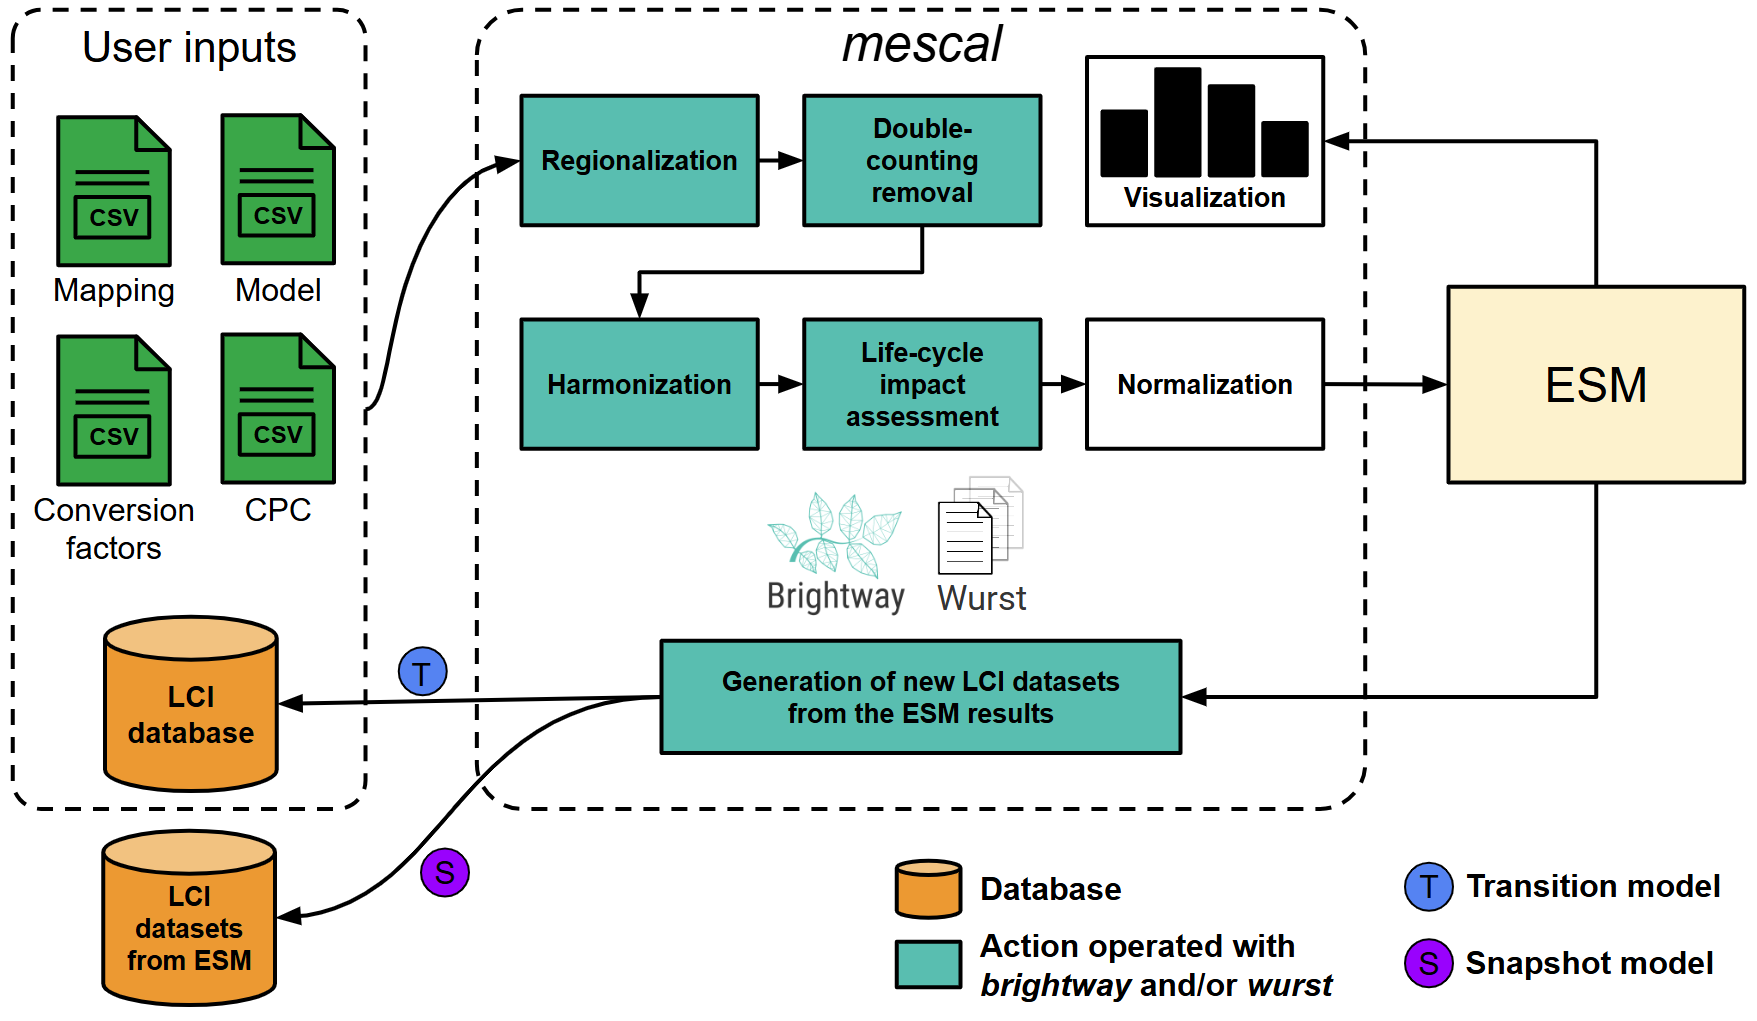
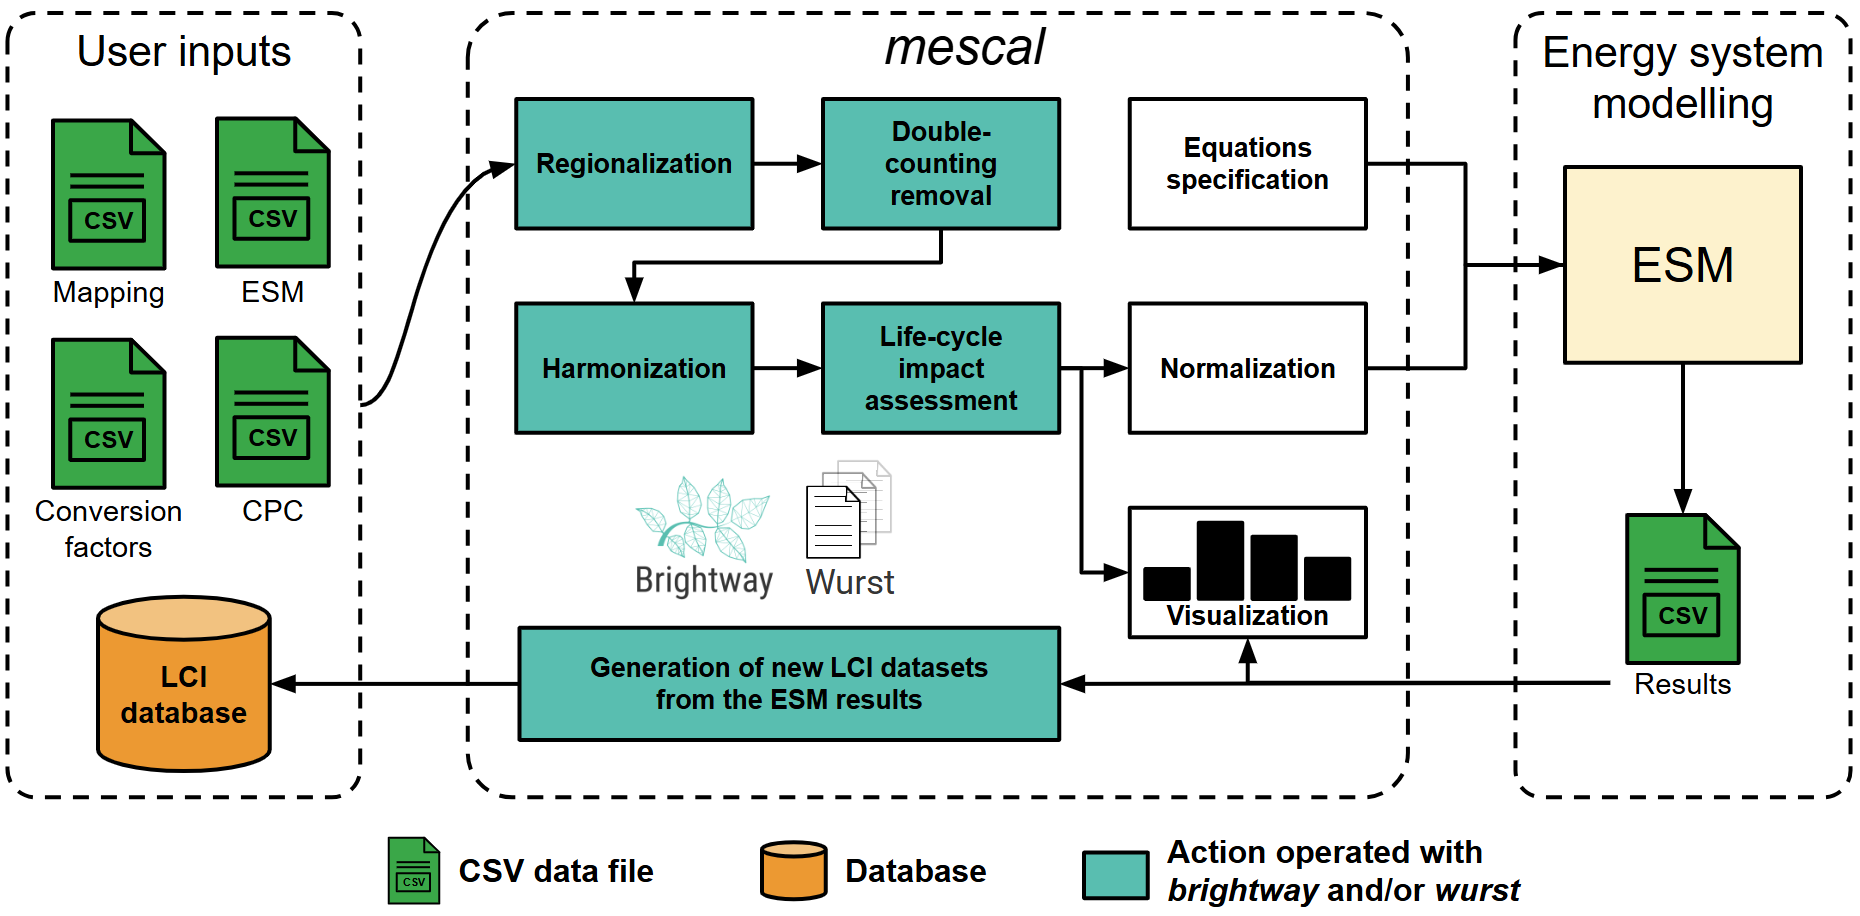
updated figure and added modelling equations

diff --git a/paper.md b/paper.md
@@ -75,7 +75,7 @@ enlarge their set of sustainability metrics.
 - `Mapping.csv`: the mapping between ESM processes (i.e., technologies and resources) and LCI datasets from a LCI 
 database, e.g., _ecoinvent_ [@wernet2016].
 
-- `Model.csv`: the input and output flows of ESM technologies. 
+- `ESM.csv`: the input and output flows of ESM technologies. 
 
 - `Conversion factors.csv`: the set of unit conversion factors between ESM processes and their mapped LCI datasets.
 
@@ -146,7 +146,7 @@ the amount of direct emissions proportionally to the efficiency difference. Exce
 energy elementary flows, the amounts of all elementary flows in the direct emissions of the operation LCI datasets are adjusted 
 using the ratio between the ESM and LCI dataset efficiencies (`Lifetime.csv`). The efficiency of the operation LCI dataset is computed 
 using the quantity of fuel that was removed during the double-counting removal step, while the efficiency of the ESM 
-process is computed from `Model.csv`. This transformation is applied to a list of ESM technologies given by the user 
+process is computed from `ESM.csv`. This transformation is applied to a list of ESM technologies given by the user 
 (`Efficiency.csv`), typically technologies involving a combustion process. 
 
 - **Physical units**: The energy and material output flows may be expressed in different units in the ESM and the LCI 
@@ -167,20 +167,45 @@ set to zero during the double-counting removal step.
 Prior to integration into ESM, LCA indicators are normalized. In the context of optimization, 
 normalization is beneficial in facilitating the solver's convergence, given that LCA indicators may exhibit 
 significant discrepancies in magnitude across impact categories. By aligning all metrics within a comparable order of 
-magnitude, numerical stability is improved in the solving process. Furthermore, considerable discrepancies in magnitude 
-may be observed between infrastructure and operation LCA indicators within the same impact category, given that 
-these are not expressed with the same physical unit. Consequently, an adjustment factor was applied to infrastructure 
-LCIA scores, to ensure that the maximum infrastructure and operation metrics of a given impact category are both 
-normalized to 1. This adjustment factor is accounted when converting the normalized impact scores into physical impact 
-scores.
+magnitude, numerical stability is improved in the solving process. 
+
+## Equations specification
+The following set of modelling equations should be included in ESM.
+The environmental objective $\pmb{LCIA_{tot}}$ is defined as the sum of the impacts of the infrastructure, operation, 
+and resource parts, namely $\pmb{LCIA_{infra}}$, $\pmb{LCIA_{op}}$, and  $\pmb{LCIA_{res}}$ (\autoref{eq:lcia_tot}). 
+The infrastructure impact is derived from the normalized specific impact ($lcia^{norm}_{infra}$), which is computed 
+from the infrastructure \gls{LCI} dataset. This value is then divided by the technology's lifetime in the ESM 
+($n_{ESM}$), and scaled with the technology's installed capacity ($\pmb{F}$). The operation and resource impacts are 
+respectively derived from the operation and resource normalized specific impacts ($lcia^{norm}_{op}$ and 
+$lcia^{norm}_{res}$), which are respectively computed from the operation and resource LCI datasets, and scaled 
+with the annual energy production ($\pmb{F_t} \cdot t_{op}$). 
+
+\begin{align}
+\begin{split}
+    \pmb{LCIA_{tot}}(k) = \sum_{j \in TECH}(\pmb{LCIA_{infra}}(j,k) + \pmb{LCIA_{op}}(j,k)) \\
+    + \sum_{r \in RES} \pmb{LCIA_{res}}(r,k) \quad \forall k \in ENV \label{eq:lcia_tot}
+\end{split}
+\end{align}
+\begin{align}
+\begin{split}
+    \pmb{LCIA_{infra}}(j,k) = lcia_{infra}^{norm}(j,k) \cdot \pmb{F}(j) \cdot \frac{1}{n_{ESM}(j)} \\ 
+    \quad \forall (j,k) \in TECH \times ENV \label{eq:lcia_infra}
+\end{split}
+\end{align}
+\begin{align}
+    \pmb{LCIA_{op}}(j,k)= lcia_{op}^{norm}(j,k) \cdot \sum_{t \in T} \pmb{F_t}(j,t) \cdot t_{op}(t) \quad \forall (j,k) \in TECH \times ENV \label{eq:lcia_variable}
+\end{align}
+\begin{align}
+    \pmb{LCIA_{res}}(r,k) = lcia_{res}^{norm}(r,k) \cdot \sum_{t \in T} \pmb{F_t}(r,t) \cdot t_{op}(t) \quad \forall (r,k) \in RES \times ENV \label{eq:lcia_resource}
+\end{align}
 
 ## Integrating ESM results in the LCI database
 In ordre to update the LCI database with the ESM results, `mescal` overwrites the relevant LCI datasets, 
 i.e., LCI datasets that are in the sectoral and geographical scope of the ESM, such as markets for electricity, heat or 
 transport. 
 Updating the LCI database background inventory paves for the way for using `mescal` with myopic ESM, i.e., ESM 
-dividing the transition period into a sequence of consecutive optimization problems [@prina2020], through a 3-step 
-procedure: 1) run the ESM at time-step $t$, 2) update the LCI database with the ESM results at time-step $t$, 
+dividing the transition period into a sequence of consecutive optimization problems [@prina2020], through an iterative 
+3-step procedure: 1) run the ESM at time-step $t$, 2) update the LCI database with the ESM results at time-step $t$, 
 and 3) update the LCA indicators with the updated LCI database for time-step $t+1$.
 
 ## Example notebook
@@ -203,7 +228,7 @@ As an example, `mescal` methodology has been applied by @schnidrig2024 with the 
 to analyse environmental-economic trade-offs in Swiss energy system transitions.
 
 # Conclusion
-`mescal` is a Python package that couples LCA with ESM. It integrates LCA indicators in ESM to enlarge the set of
+`mescal` is a Python package that bidirectionally couples LCA and ESM. It integrates LCA indicators in ESM to enlarge the set of
 sustainability indicators and thus better highlight trade-offs of energy transition pathways. Additionally, it integrates 
 the results of ESM back to the LCI database, thus allowing LCA practitioners to include ESM projections in their analyses. 
 
